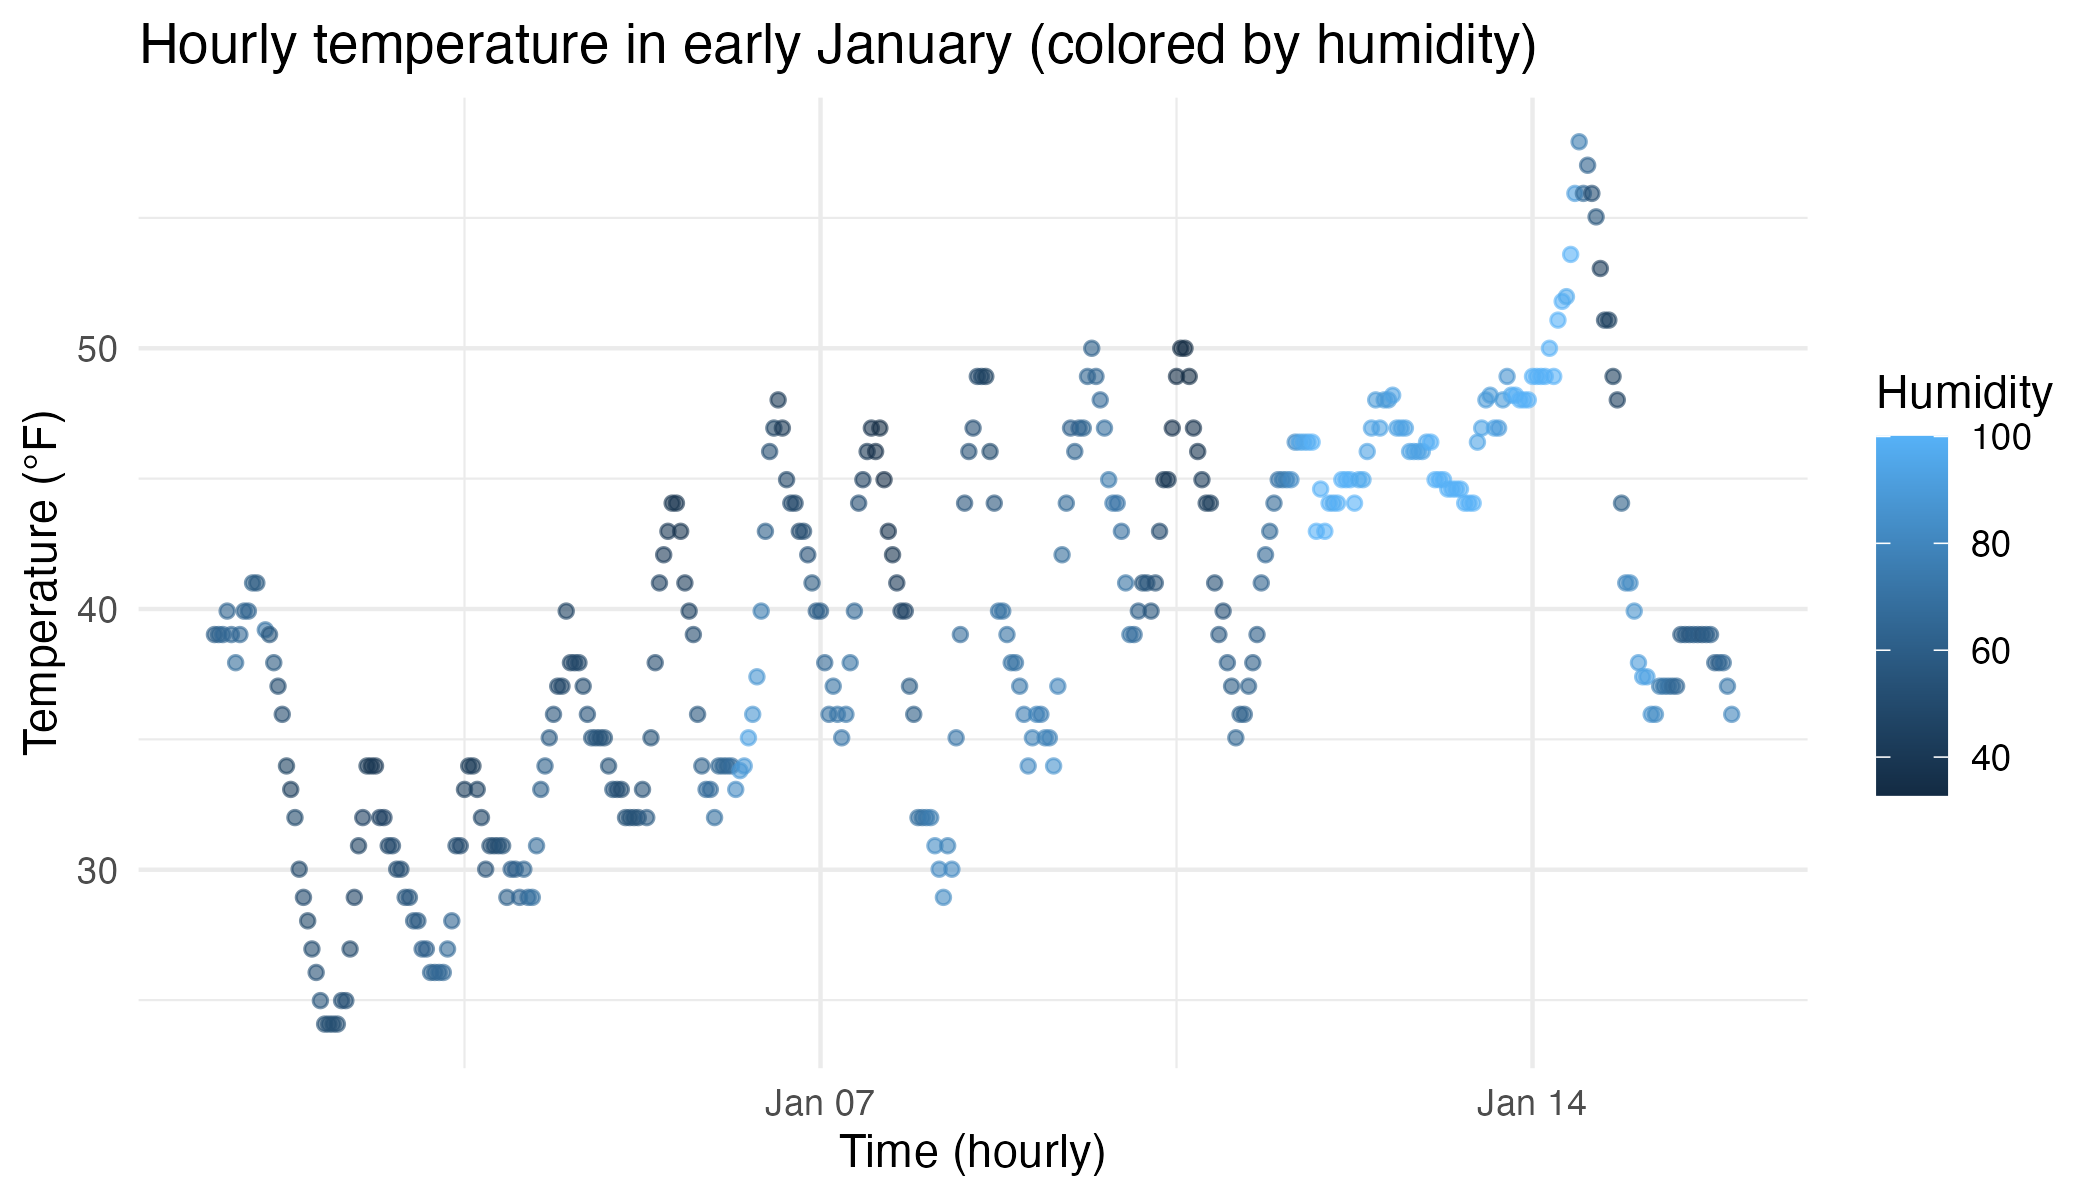
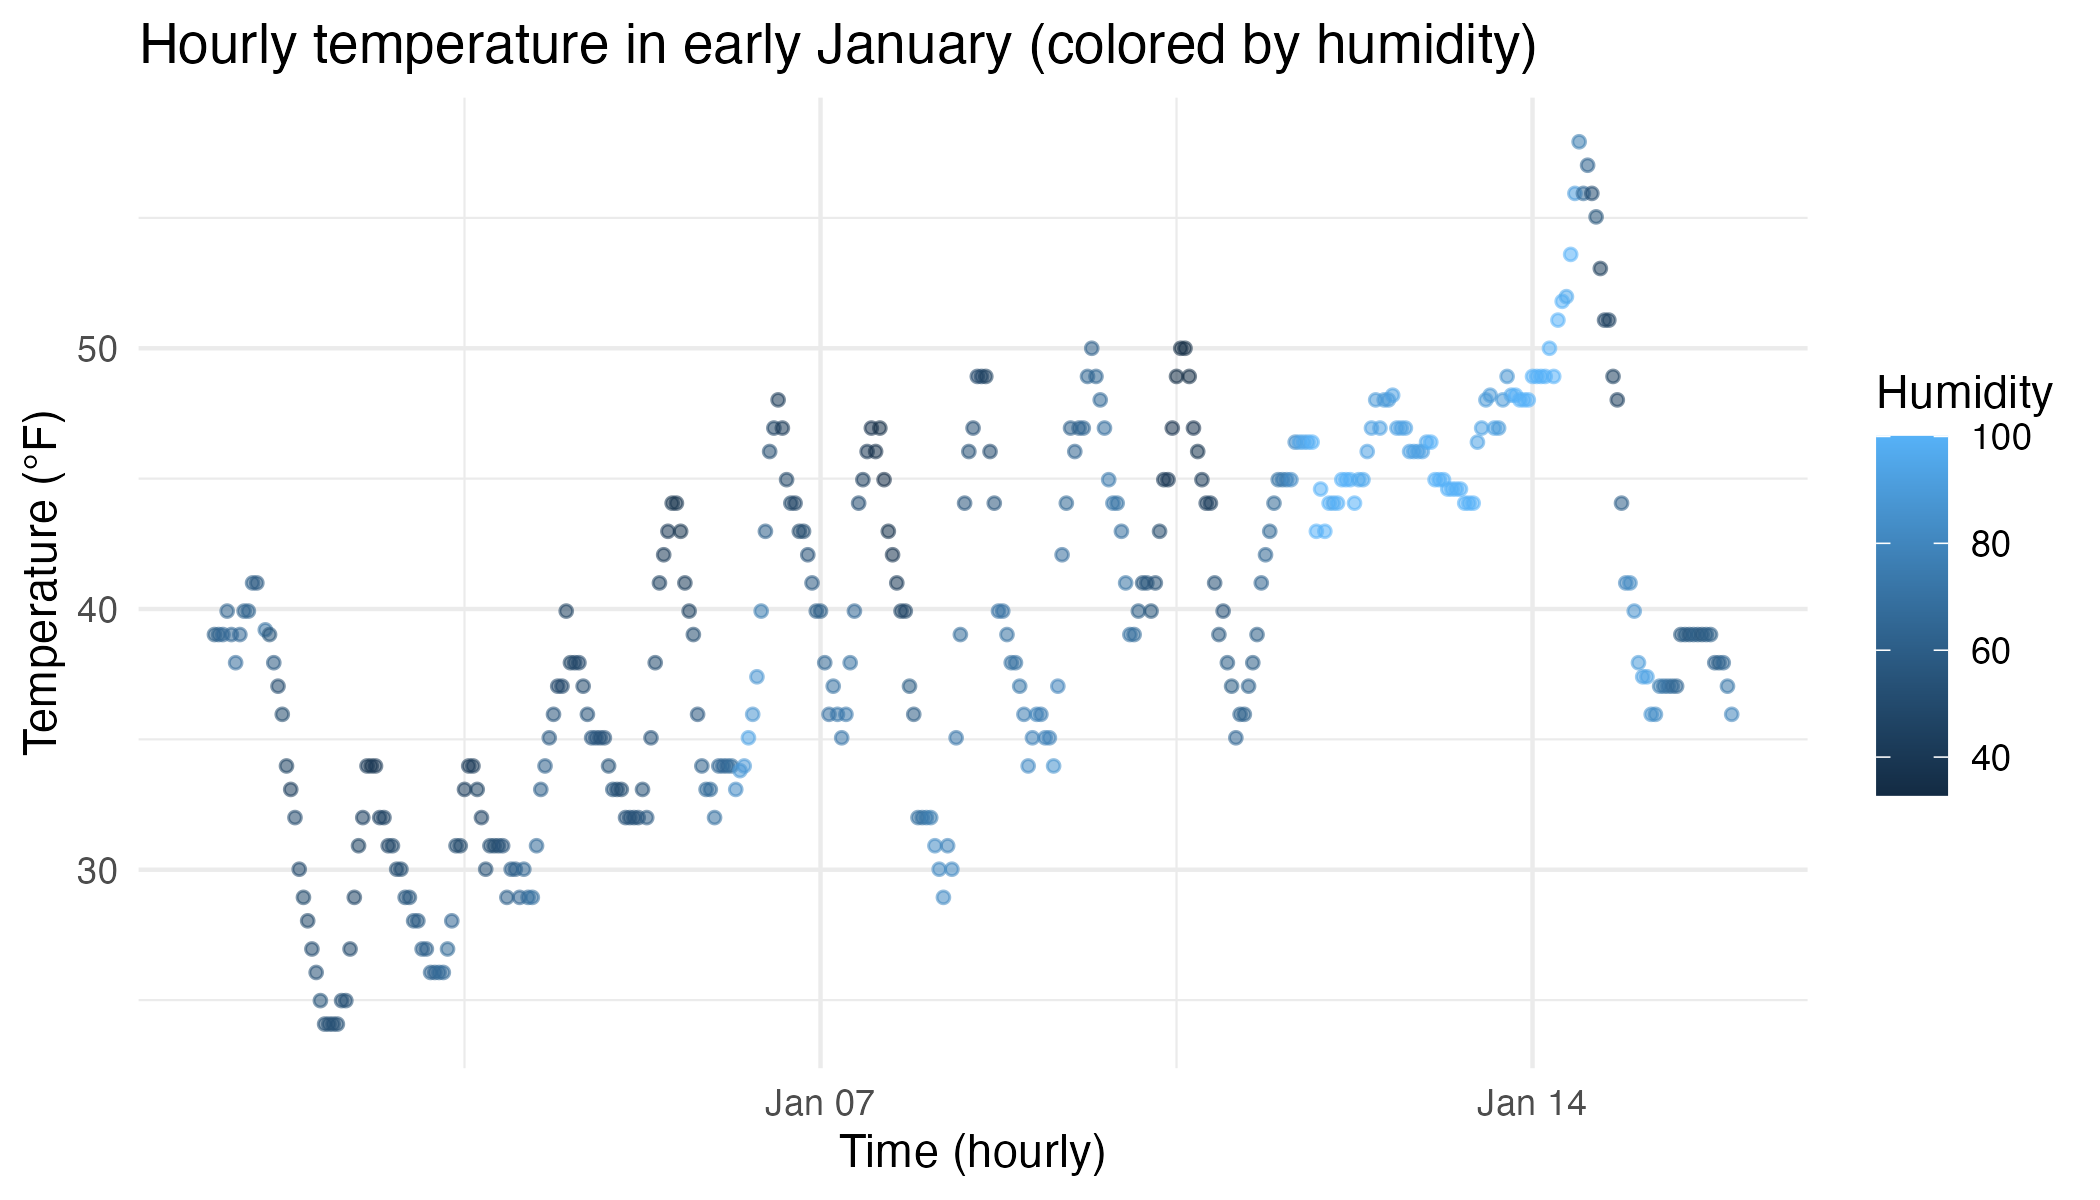
Update figure plot color.

diff --git a/p8105_hw1_ym3139.md b/p8105_hw1_ym3139.md
@@ -21,7 +21,7 @@ The average temperature is 39.58 °F.
 
 ``` r
 p_temp_time <- ggplot(wx, aes(x = time_hour, y = temp, color = humid)) +
-  geom_point(alpha = 0.6, size = 1.3) +
+  geom_point(alpha = 0.55, size = 1.1) +
   labs(
     x = "Time (hourly)",
     y = "Temperature (°F)",
@@ -33,7 +33,7 @@ p_temp_time <- ggplot(wx, aes(x = time_hour, y = temp, color = humid)) +
 p_temp_time
 ```
 
-![](p8105_hw1_ym3139_files/figure-gfm/unnamed-chunk-2-1.png)<!-- -->
+![](p8105_hw1_ym3139_files/figure-gfm/unnamed-chunk-1-1.png)<!-- -->
 
 The figure shows: Temperature fluctuates significantly throughout the
 day (higher during the day, lower at night); and the color indicates a
